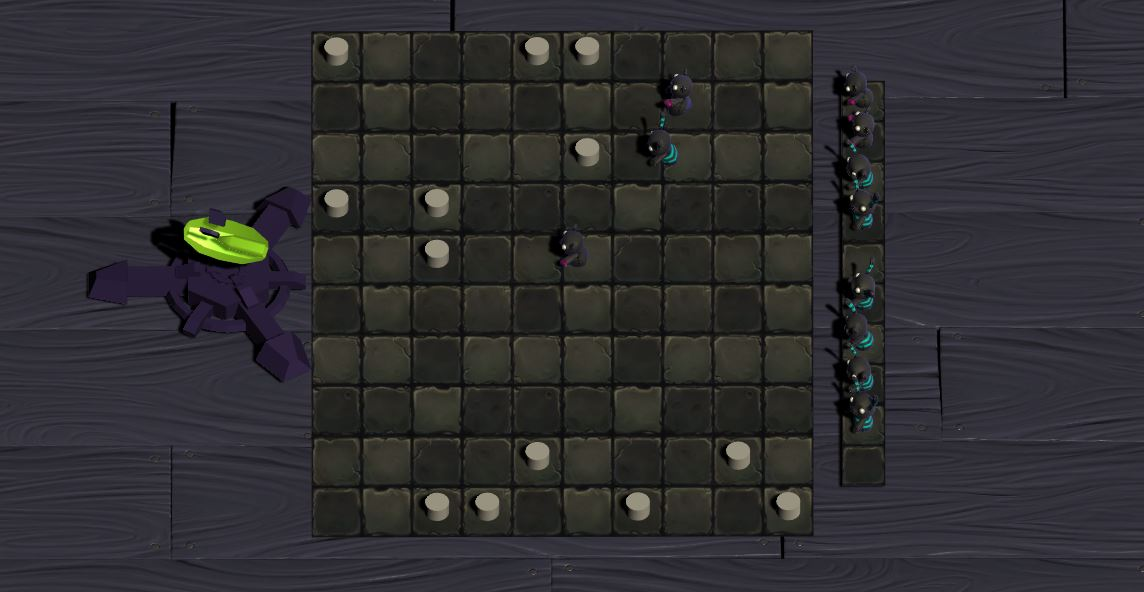
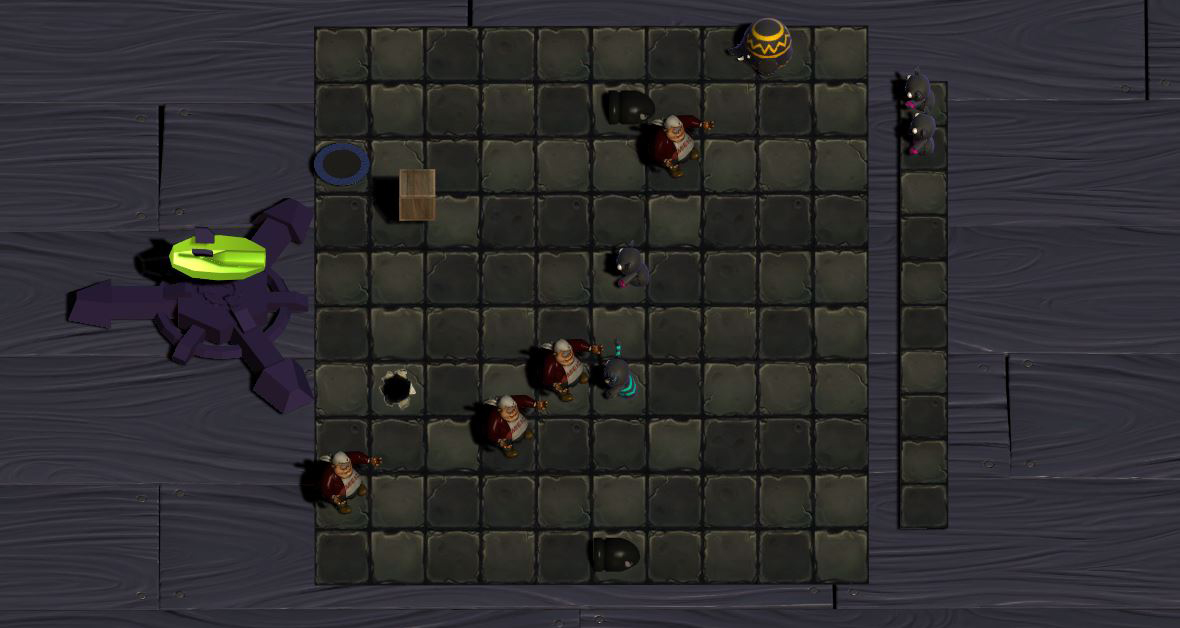
worked on a bunch of things

diff --git a/Assets/Scripts/Level/LemmingController.cs b/Assets/Scripts/Level/LemmingController.cs
@@ -7,6 +7,7 @@ public class LemmingController : MonoBehaviour
 {
 	// static
 	public static GameObject selectedLemming; // select lemming
+	public static float[] abilitiesCooldown = { 1.0f, 1.0f, 1.0f, 1.0f, 1.0f };
 
 	// public
 	public float speed; // speed of the lemming
@@ -25,6 +26,9 @@ public class LemmingController : MonoBehaviour
 	protected bool running; // if it is running, it is on terrain
 	protected bool selected; // if it is selected
 	protected bool falling; // if it is falling (-y velocity)
+	protected bool usedUltimate;
+
+	public bool countSaved; // differ for bear ultimate
 
 	protected Animator animtr;
 
@@ -47,6 +51,8 @@ public class LemmingController : MonoBehaviour
 		rimColor = mat.GetColor("_RimColor");
 		running = false;
 		animtr = GetComponent<Animator>() as Animator;
+		countSaved = true;
+		usedUltimate = false;
 	}
 
 	protected virtual void Start() {
@@ -70,7 +76,12 @@ public class LemmingController : MonoBehaviour
 		if (!running && !selected)
 			Select();
 		else if (!selected) {
-			Invoke("Action" + ActionBarController.action, 0.0f);
+			if(abilitiesCooldown[ActionBarController.action - 1] == 1.0f) {
+				if(ActionBarController.action != 5 || !usedUltimate) {
+					abilitiesCooldown [ActionBarController.action - 1] = 0.0f;
+					Invoke("Action" + ActionBarController.action, 0.0f);
+				}
+			}
 		}
 	}
 
@@ -96,7 +107,6 @@ public class LemmingController : MonoBehaviour
 	}
 	
 	protected virtual void Action1() {
-		// really shouldn't be using magic numbers, but lacking time right now
 		// min z: -8, max z: 8, diff between lanes: 2
 
 		if (rigidBody.velocity.y > 1 || rigidBody.velocity.y < -1) {

diff --git a/Assets/Scripts/Level/BoxController.cs b/Assets/Scripts/Level/BoxController.cs
@@ -7,6 +7,11 @@ public class BoxController : MonoBehaviour
 	public float speed;
 	public GameObject[] obstacleTypes;
 
+	public int trampolineChance;
+	public int vidalChance;
+	public int bulletChance;
+	public int holeChance;
+
 	// private
 	private Vector3 target;
 	private Vector3 targetVector;
@@ -24,11 +29,26 @@ public class BoxController : MonoBehaviour
 
 	void OnTriggerEnter(Collider other) {
 		if (other.tag == "Terrain") {
-			GameObject newType = obstacleTypes[Random.Range(0, obstacleTypes.Length)];
-			GameObject newObstacle = Instantiate(newType) as GameObject;
+			int newType = 0;
+			int chance = Random.Range(0, 100);
+
+			if(chance < trampolineChance)
+				newType = 0;
+			else if(chance < vidalChance)
+				newType = 1;
+			else if(chance < bulletChance)
+				newType = 2;
+			else if(chance < holeChance)
+				newType = 3;
+
+			GameObject newObstacle = Instantiate(obstacleTypes[newType]) as GameObject;
 
 			newObstacle.transform.position = new Vector3(target.x, 0.0f, target.z); // once we're at the correct position, we should get rid of the y offset
 			newObstacle.GetComponent<ObstacleController>().SetTarget(target);
+			if(newObstacle.name == "Bullet(Clone)")
+				newObstacle.transform.position = new Vector3(newObstacle.transform.position.x,
+				                                             newObstacle.transform.position.y + 0.5f,
+				                                             newObstacle.transform.position.z);
 
 			Destroy(this.gameObject);
 		}

diff --git a/Assets/Scripts/Level/ZomBunnyController.cs b/Assets/Scripts/Level/ZomBunnyController.cs
@@ -3,8 +3,54 @@ using System.Collections;
 
 public class ZomBunnyController : LemmingController 
 {
+	private float timeUnderGround;
+	private bool underGround;
+
+	protected override void Start() {
+		underGround = false;
+	}
+
+	protected override void FixedUpdate() {
+		if (running) {
+			Vector3 velocity = rigidBody.velocity;
+			velocity.x = -speed;
+			rigidBody.velocity = velocity;
+		}
+
+		if (underGround && timeUnderGround > 0f) {
+			timeUnderGround -= Time.deltaTime;
+
+			Vector3 pos = transform.position;
+			if(timeUnderGround > 3f/2f)
+				pos.y -= 0.1f;
+			else
+				pos.y += 0.1f;
+			transform.position = pos;
+		} else if(underGround) {
+			underGround = false;
+			GetComponent<Collider> ().enabled = true;
+			Vector3 pos = transform.position;
+			pos.y = -0.2f;
+			transform.position = pos;
+			rigidBody.useGravity = true;
+
+			Vector3 v = rigidBody.velocity;
+			v.y = 0f;
+			rigidBody.velocity = v;
+		}		
+
+		// should reach at least this velocity to be considered falling (excludes small bumps, placing of lemmings on terrain)
+		if (rigidBody.velocity.y < -5) { 
+			falling = true;
+		}
+	}
+
 	protected override void Action5() {
-		// abilidade especial aqui
-		Debug.Log("lolnope");
+		usedUltimate = true;
+		
+		GetComponent<Collider> ().enabled = false;
+		rigidBody.useGravity = false;
+		underGround = true;
+		timeUnderGround = 3f;
 	}
 }

diff --git a/Assets/Scripts/Level/ZomBearController.cs b/Assets/Scripts/Level/ZomBearController.cs
@@ -6,19 +6,21 @@ public class ZomBearController : LemmingController
 	public GameObject cloneType;
 
 	protected override void Action5() {
-		// really shouldn't be using magic numbers, but lacking time right now
-		// min z: -8, max z: 8, diff between lanes: 2
+		usedUltimate = true;
 
+		// min z: -8, max z: 8, diff between lanes: 2
 		if (transform.position.z < 8) {
 			GameObject newBear1 = Instantiate(cloneType) as GameObject;
 			newBear1.transform.position = new Vector3(transform.position.x, transform.position.y, transform.position.z + 2);
 			newBear1.GetComponent<LemmingController>().StartRunning();
+			newBear1.GetComponent<LemmingController>().countSaved = false;
 		}
 
 		if (transform.position.z > -8) {
 			GameObject newBear2 = Instantiate(cloneType) as GameObject;
 			newBear2.transform.position = new Vector3(transform.position.x, transform.position.y, transform.position.z - 2);
 			newBear2.GetComponent<LemmingController>().StartRunning();
+			newBear2.GetComponent<LemmingController>().countSaved = false;
 		}
 	}
 }

diff --git a/Assets/Scripts/Level/TerrainController.cs b/Assets/Scripts/Level/TerrainController.cs
@@ -9,7 +9,7 @@ public class TerrainController : MonoBehaviour
 
 	public int numTilesX; // length
 	public int numTilesY; // number of lanes
-	public int numProtectedRows; // number of lanes near spawn where obstacles can't spawn
+	public int numProtectedCols; // number of lanes near spawn where obstacles can't spawn
 
 	// private
 	private GameController gameController; // game controller gameObject
@@ -85,12 +85,12 @@ public class TerrainController : MonoBehaviour
 	}
 
 	public Vector3 GetRandomPosition() {
-		float rndTileX = Random.Range(0, numTilesX - numProtectedRows) - numTilesX/2f;
+		float rndTileX = Random.Range(0, numTilesX - numProtectedCols) - numTilesX/2f;
 		float rndTileY = Random.Range(0, numTilesY) - numTilesY/2f;
 		
 		float rndX = (rndTileX * tileX) + (tileX/2f);
 		float rndY = (rndTileY * tileY) + (tileY/2f);
-		
+
 		return new Vector3(rndX, 0.5f, rndY); // with y = 0.0, box would touch floor before getting to position, so we need an offset
 	}
 }

diff --git a/Assets/Scripts/Level/BulletController.cs b/Assets/Scripts/Level/BulletController.cs
@@ -18,16 +18,18 @@ public class BulletController : ObstacleController
 
 	void OnTriggerEnter(Collider other) {
 		if (other.tag == "Shield") {
-			Destroy(other.gameObject);
+			Destroy (other.gameObject);
 
-			Dispose();
-			Destroy(this.gameObject);
-		}
-		else if (other.tag == "Lemming") {
-			other.gameObject.GetComponent<LemmingController>().Kill();
+			Dispose ();
+			Destroy (this.gameObject);
+		} else if (other.tag == "Lemming") {
+			other.gameObject.GetComponent<LemmingController> ().Kill ();
 			
-			Dispose();
-			Destroy(this.gameObject);
+			Dispose ();
+			Destroy (this.gameObject);
+		} else if (other.tag == "Vidal") {
+			Dispose ();
+			Destroy (this.gameObject);
 		}
 	}
 }

diff --git a/Assets/Scripts/Menu/GameEndController.cs b/Assets/Scripts/Menu/GameEndController.cs
@@ -41,8 +41,10 @@ public class GameEndController : MonoBehaviour
 		bool win = GameController.lemmingsSaved >= GameController.lemmingsGoal;
 
 		if (win) {
+			double score = ((double) GameController.lemmingsSaved / (double) GameController.lemmingsTotal) * 100;
+			if(score > 100) score = 100;
 			resultText.text = "Great! You won!";
-			scoreText.text = "Score: " + ((double) GameController.lemmingsSaved / (double) GameController.lemmingsTotal) * 100 + "%";
+			scoreText.text = "Score: " + score + "%";
 			if(Application.loadedLevelName == "Level3")
 				next.gameObject.SetActive(false);
 		} else {

diff --git a/Assets/Scripts/HUD/ActionBarController.cs b/Assets/Scripts/HUD/ActionBarController.cs
@@ -10,6 +10,15 @@ public class ActionBarController : MonoBehaviour {
 	}
 
 	void Update() {
+		for (int i = 0; i < 5; i++) {
+			if(LemmingController.abilitiesCooldown [i] < 1.0f)
+				LemmingController.abilitiesCooldown [i] += Time.deltaTime;
+			else
+				LemmingController.abilitiesCooldown [i] = 1.0f;
+
+			gameObject.transform.GetChild(5 + i).gameObject.GetComponent<Slider>().value = LemmingController.abilitiesCooldown [i];
+		}
+
 		if (Input.anyKeyDown) {
 			if (Input.GetKeyDown ("1")) {
 				action = 1;

diff --git a/Assets/Scripts/Level/DestroyByBackBoundary.cs b/Assets/Scripts/Level/DestroyByBackBoundary.cs
@@ -1,12 +1,10 @@
 using UnityEngine;
 using System.Collections;
 
-public class DestroyByBoundary : MonoBehaviour 
+public class DestroyByBackBoundary : MonoBehaviour 
 {
 	void OnTriggerEnter(Collider other) {
 		if (other.tag == "Lemming") {
-			if(other.gameObject.GetComponent<LemmingController> ().countSaved)
-				GameController.lemmingsSaved++;
 			Destroy(other.gameObject);
 		}
 		else if(other.tag == "Bullet") {

diff --git a/Assets/Scripts/Level/TurretController.cs b/Assets/Scripts/Level/TurretController.cs
@@ -53,10 +53,9 @@ public class TurretController : MonoBehaviour
 					yield return null;
 
 				filledTiles.Add(target);
-
 			}
 			else {
-				cannon.rotation = Quaternion.RotateTowards(cannon.rotation, targetRotation, rotationSpeed);		
+				cannon.rotation = Quaternion.RotateTowards(cannon.rotation, targetRotation, rotationSpeed / cooldown);	
 			} 
 
 			yield return null;

diff --git a/Assets/Scripts/Level/HellephantController.cs b/Assets/Scripts/Level/HellephantController.cs
@@ -40,6 +40,8 @@ public class HellephantController : LemmingController
 	}
 
 	protected override void Action5() {
+		usedUltimate = true;
+
 		rage = true;
 		rageStartTime = Time.time;
 		mat.SetColor("_RimColor", rageColor);
